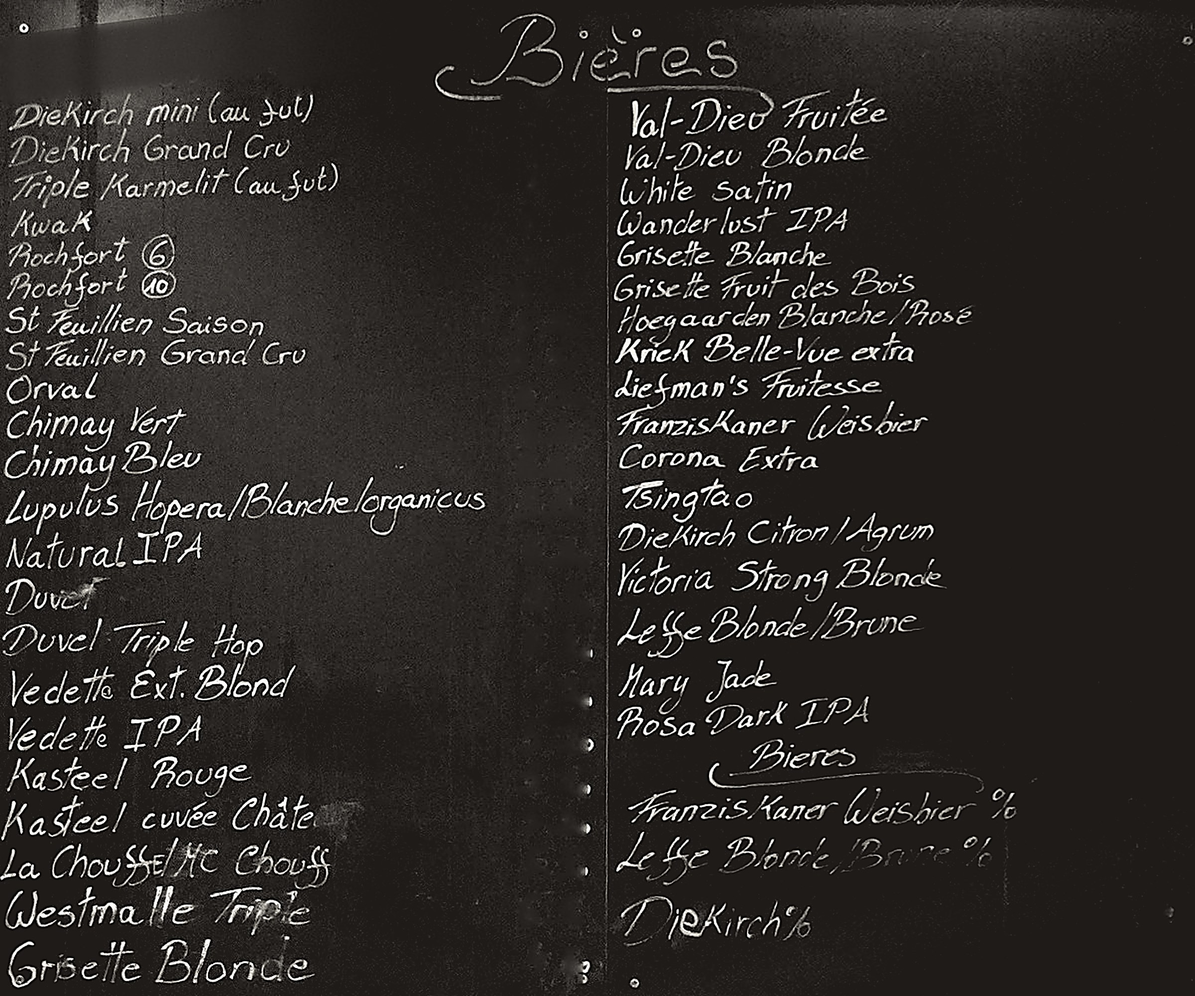
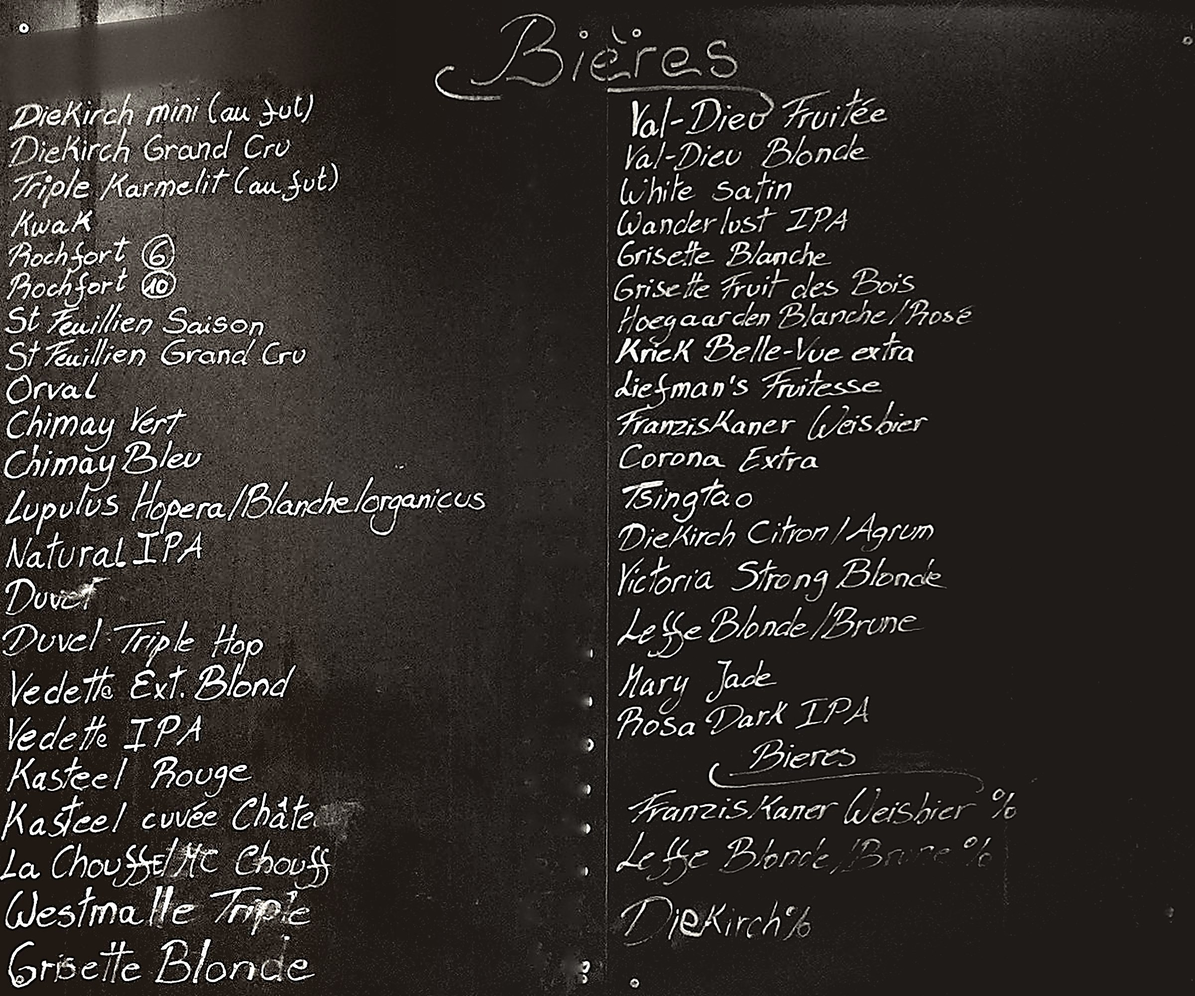
Mont St-Lambert: Trappist column on the hero, hand-varied chalk glyphs, larger chalk lines, drop the brewery-name row

diff --git a/demo/mont-st-lambert/index.html b/demo/mont-st-lambert/index.html
@@ -56,8 +56,8 @@ button{font:inherit;color:inherit;background:none;border:0;cursor:pointer}
 /* hero: their beer board (from a5) */
 .hero{position:relative;isolation:isolate;overflow:hidden;min-height:max(640px,calc(100svh - 60px));display:flex;flex-direction:column;justify-content:flex-end;padding-bottom:36px}
 .hero .board{position:absolute;inset:0;z-index:-1}
-.hero .board img{width:100%;height:100%;object-fit:cover;object-position:70% 0}
-.hero .board::after{content:"";position:absolute;inset:0;background:linear-gradient(180deg,rgba(31,28,26,0) 0%,rgba(31,28,26,0) 24%,rgba(31,28,26,.9) 40%,var(--slate) 50%,var(--slate) 100%)}
+.hero .board img{width:100%;height:100%;object-fit:cover;object-position:0 0}
+.hero .board::after{content:"";position:absolute;inset:0;background:linear-gradient(180deg,rgba(31,28,26,0) 0%,rgba(31,28,26,0) 34%,rgba(31,28,26,.9) 47%,var(--slate) 55%,var(--slate) 100%)}
 .hero .wrap{position:relative}
 .hero .wrap::before{content:"";position:absolute;z-index:-1;left:-12%;right:-8%;top:-18%;bottom:-14%;background:radial-gradient(closest-side,rgba(28,26,24,.97) 58%,rgba(28,26,24,.85) 74%,rgba(28,26,24,0) 100%);pointer-events:none}
 .hero .logo{width:min(80vw,540px);height:auto}
@@ -95,7 +95,7 @@ button{font:inherit;color:inherit;background:none;border:0;cursor:pointer}
 .ln{position:relative;display:block;width:max-content;max-width:100%;white-space:nowrap;filter:url(#chalk);opacity:var(--op,.92);transform:translateY(var(--dy,0px)) rotate(var(--rot,-.6deg));transform-origin:0 50%}
 /* dust haze under a freshly written line; it settles */
 .ln.wr{-webkit-mask-image:none;mask-image:none}
-.ln .g{display:inline-block;white-space:pre;text-decoration:inherit;text-decoration-color:inherit;text-underline-offset:inherit;text-decoration-thickness:inherit;clip-path:inset(-40% calc((1 - var(--g,0)) * 140% - 40%) -40% -40%);opacity:calc(var(--g,0) * 8);transform:translateY(calc((1 - var(--g,0)) * .6px))}
+.ln .g{display:inline-block;white-space:pre;text-decoration:inherit;text-decoration-color:inherit;text-underline-offset:inherit;text-decoration-thickness:inherit;clip-path:inset(-40% calc((1 - var(--g,0)) * 140% - 40%) -40% -40%);opacity:calc(var(--g,0) * 8);transform:translateY(calc(var(--gy,0px) + (1 - var(--g,0)) * .6px)) rotate(var(--gr,0deg)) scale(var(--gs,1))}
 .ln::after{content:"";position:absolute;left:-2%;right:-2%;top:62%;height:55%;pointer-events:none;background:radial-gradient(50% 50% at 50% 40%,rgba(242,239,230,.12),rgba(242,239,230,0));opacity:calc(var(--hz,0) * .9);transform:translateY(calc((1 - var(--hz,0)) * 4px))}
 .dr{position:relative;--dir:110deg;transform:rotate(var(--rot,0deg))}
 .dr img{display:block;width:100%;height:auto}
@@ -142,7 +142,7 @@ button{font:inherit;color:inherit;background:none;border:0;cursor:pointer}
 /* scene 1: the inside */
 .scene .in > .fit{display:flex;flex-direction:column;align-items:center;justify-content:center;width:100%;flex-shrink:0;transform-origin:50% 50%}
 .s0 .in{justify-content:center}
-.s0 .ln{font-size:28px;line-height:40px}
+.s0 .ln{font-size:28px;line-height:40px;color:#f2efe6;--op:.98!important}
 .s0 .line{margin-top:24px}
 
 /* scene 2: les bieres */
@@ -157,7 +157,7 @@ button{font:inherit;color:inherit;background:none;border:0;cursor:pointer}
 .s1 .col{display:flex;flex-direction:column;align-items:flex-start}
 .s1 .cols{position:relative}
 .s1 .glass{position:absolute;right:-30px;top:39%;width:29vw;aspect-ratio:2/3;--rot:3deg}
-.s1 .sub{font-size:18px;line-height:1.4;margin-top:14px}
+.s1 .sub{font-size:20px;line-height:1.4;margin-top:18px;color:#f2efe6;--op:.98!important}
 .logos.marks{display:flex;flex-wrap:wrap;justify-content:center;align-items:baseline;gap:6px 22px;margin-top:22px;width:100%}
 .logos.marks .mk{font-size:26px;line-height:1.2;--rot:-2deg}
 .c-butter{color:var(--butter)} .c-blue{color:var(--blue)}
@@ -269,7 +269,7 @@ body.open{overflow:hidden}
   .hero{min-height:max(720px,calc(100svh - 72px));padding-bottom:var(--s5)}
   .hero .board{left:30%}
   .hero .board img{object-position:0 0}
-  .hero .board{-webkit-mask-image:linear-gradient(90deg,transparent 0,#000 22%),linear-gradient(180deg,transparent 0,#000 7%,#000 52%,transparent 80%);-webkit-mask-composite:source-in;mask-image:linear-gradient(90deg,transparent 0,#000 22%),linear-gradient(180deg,transparent 0,#000 7%,#000 52%,transparent 80%);mask-composite:intersect}
+  .hero .board{-webkit-mask-image:linear-gradient(90deg,transparent 0,#000 7%),linear-gradient(180deg,transparent 0,#000 7%,#000 64%,transparent 84%);-webkit-mask-composite:source-in;mask-image:linear-gradient(90deg,transparent 0,#000 7%),linear-gradient(180deg,transparent 0,#000 7%,#000 64%,transparent 84%);mask-composite:intersect}
   .hero .board::after{background:radial-gradient(52% 78% at 12% 92%,rgba(31,28,26,.97) 35%,rgba(31,28,26,.7) 62%,rgba(31,28,26,0) 100%),linear-gradient(180deg,rgba(31,28,26,0) 50%,rgba(31,28,26,.5) 82%,var(--slate) 100%)}
   .hero .logo{width:500px}
   .hero .links{gap:40px;font-size:30px}
@@ -288,7 +288,7 @@ body.open{overflow:hidden}
   .s1 .glass{position:relative;right:auto;top:auto;width:220px;--rot:2deg;order:2}
   .s1 .cols > .col:nth-child(2){order:3}
   .s1 .cols{column-gap:4.5vw}
-  .s1 .sub{font-size:26px;margin-top:22px}
+  .s1 .sub{font-size:32px;margin-top:26px}
   .logos{display:flex;justify-content:center;align-items:center;gap:4.2vw;margin-top:40px}
   .logos.marks{gap:3.4vw;margin-top:36px}
   .logos.marks .mk{font-size:40px}
@@ -479,7 +479,7 @@ body.open{overflow:hidden}
                 </div>
                 <div class="dr paint glass key-mid" data-w="im" data-weight="40" data-at="3"><img src="assets/beer-glass-13.webp" alt="Dessin à la craie : un verre de bière blonde" data-ialt="a_glass" width="896" height="1344"></div>
               </div>
-              <div class="logos marks"><span class="ln mk c-apricot" data-w>Orval</span><span class="ln mk c-coral" data-w>Chimay</span><span class="ln mk c-butter" data-w>Westmalle</span><span class="ln mk c-sage" data-w>Rochefort</span><span class="ln mk c-blue" data-w>Kwak</span></div>
+              
               <span class="ln ctr sub" data-w data-i="vins">Et des vins, des rhums, des whiskies.</span>
             </div>
           </div>
@@ -601,7 +601,7 @@ body.open{overflow:hidden}
             const frag = document.createDocumentFragment();
             for (const ch of c.textContent) {
               if (/\s/.test(ch) && !c.parentElement.closest('a,.u,.ul,[href]')) { frag.appendChild(document.createTextNode(ch)); continue; }
-              const g = document.createElement('span'); g.className = 'g'; g.textContent = ch; frag.appendChild(g); glyphs.push(g);
+              const g = document.createElement('span'); g.className = 'g'; g.textContent = ch; { let h = 0; for (const c of (ch + glyphs.length + (it.textContent || '').length)) h = (h * 31 + c.charCodeAt(0)) % 9973; const r1 = (h % 97) / 96, r2 = ((h * 7) % 89) / 88, r3 = ((h * 13) % 83) / 82; g.style.setProperty('--gr', ((r1 - .5) * 5).toFixed(2) + 'deg'); g.style.setProperty('--gy', ((r2 - .5) * 2.4).toFixed(2) + 'px'); g.style.setProperty('--gs', (.95 + r3 * .1).toFixed(3)); } frag.appendChild(g); glyphs.push(g);
             }
             c.replaceWith(frag);
           } else if (c.nodeType === 1 && !c.classList.contains('g')) walk(c);
